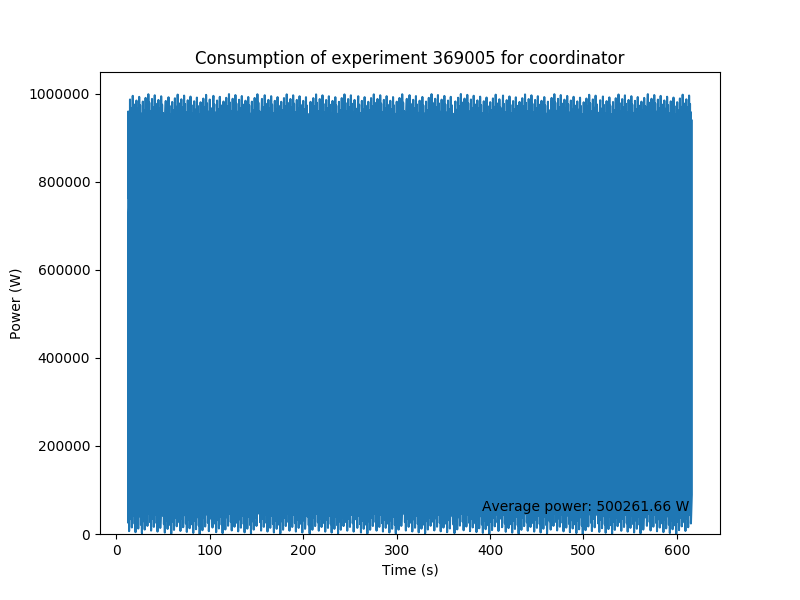
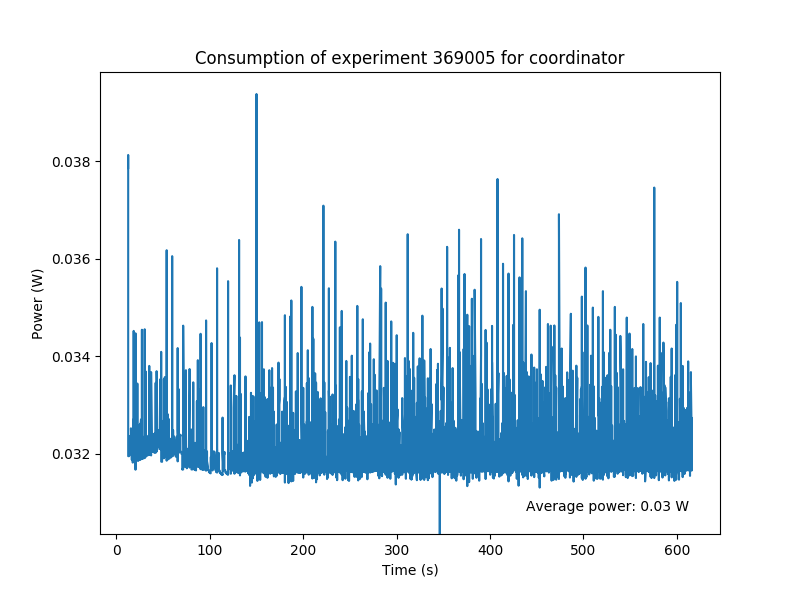
fix on unit

diff --git a/script/monitor.py b/script/monitor.py
@@ -97,7 +97,7 @@ plt.text(0.95, 0.05, text, transform=plt.gca().transAxes, ha='right')
 
 # Set y-axis label and limit
 plt.ylabel("Power (W)" if sys.argv[3] == 'power' else "Radio activity")
-plt.ylim(bottom=0)
+plt.ylim(bottom=min(values))
 
 # Show the plot
 plt.show(block=True)
